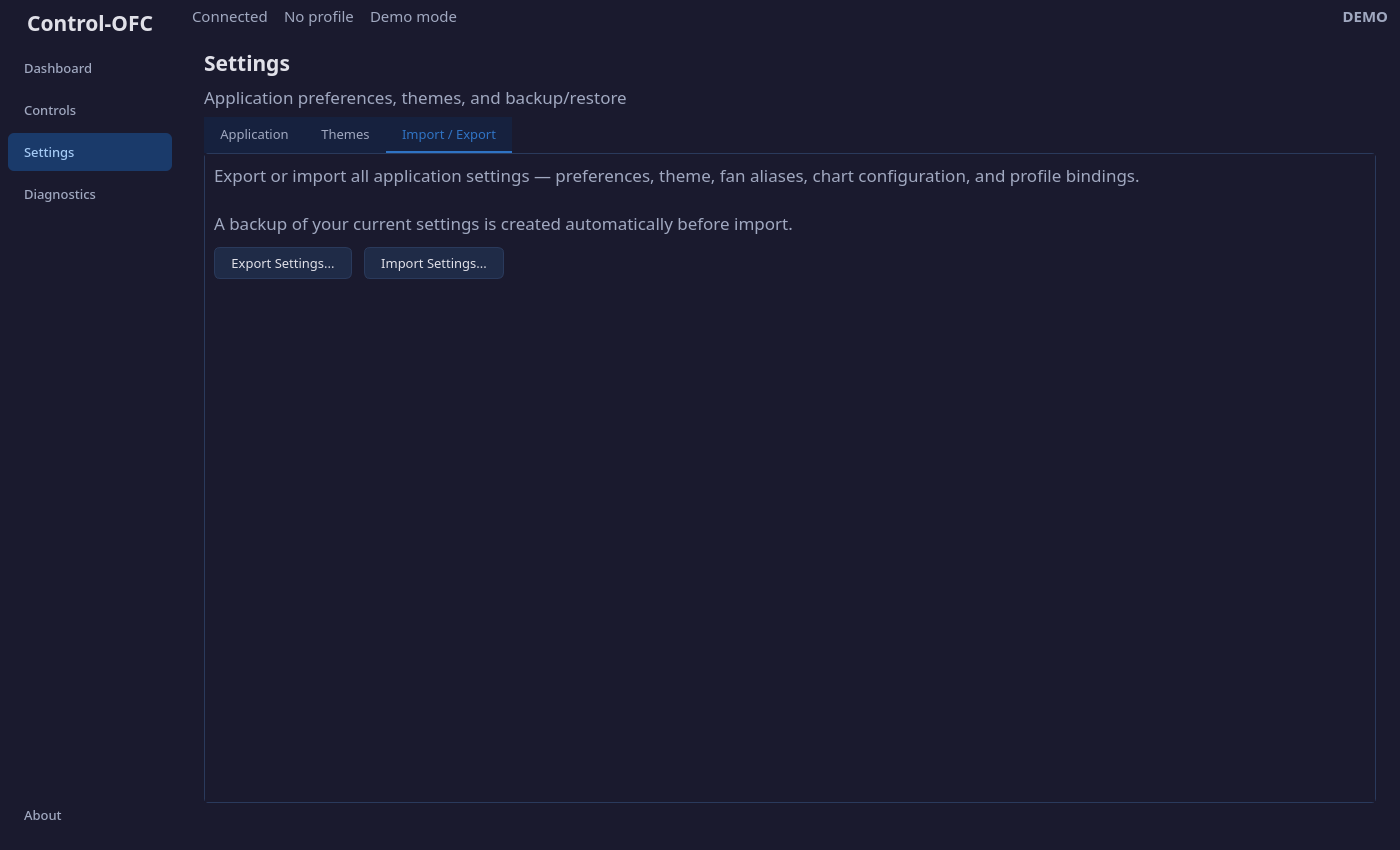
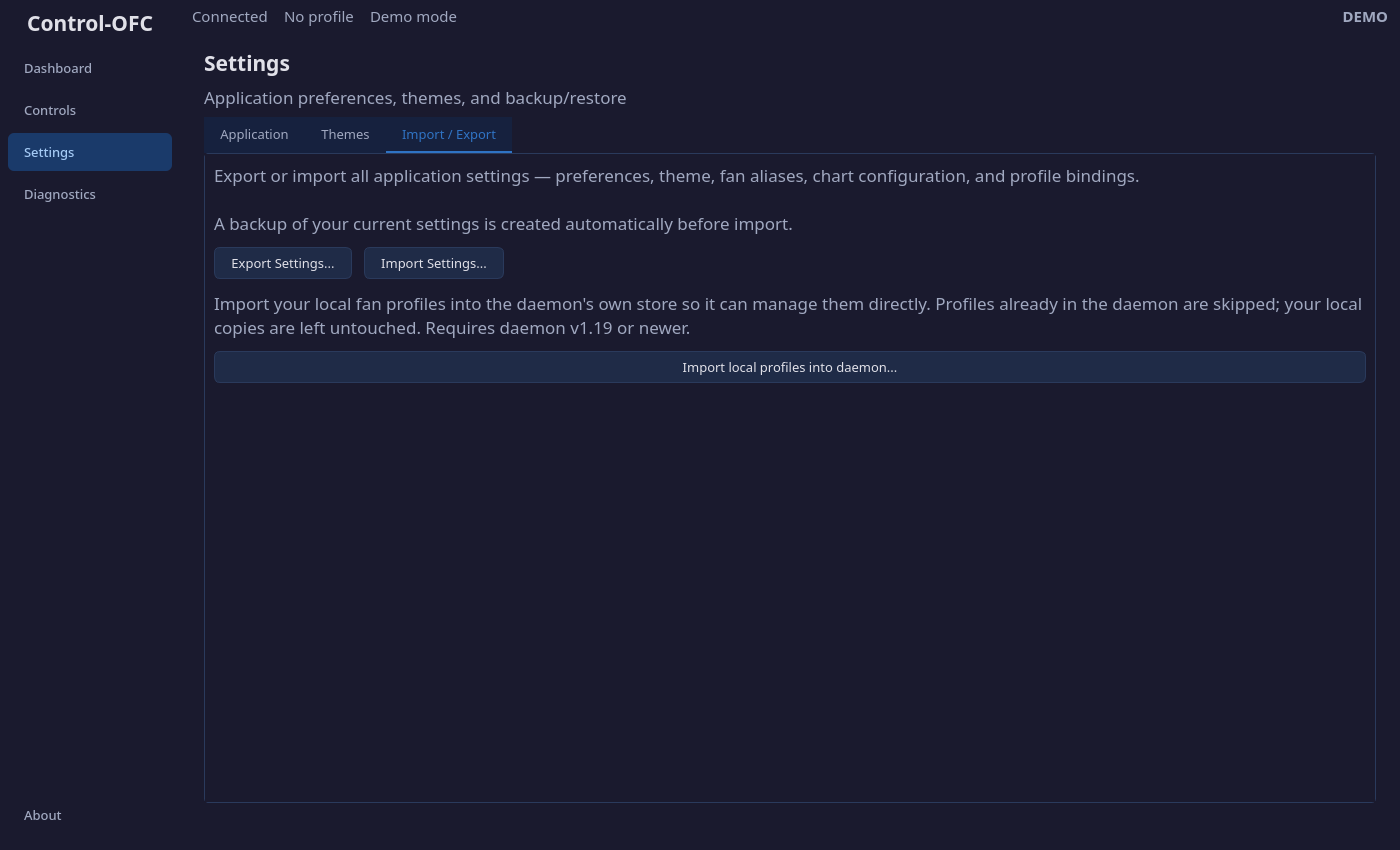
release: v1.42.0 — one-time profile import (DEC-161)
GUI-only. Migrate local fan profiles into the daemon's profile store via the
existing POST /profiles CRUD; non-destructive, idempotent, capability-gated.
Pairs with control-ofc-daemon >= v1.19.0.

- pyproject + packaging/PKGBUILD: 1.41.0 -> 1.42.0
- CHANGELOG: [1.42.0] release notes
- README: latest-release line + daemon pairing >= v1.19.0
- manual/settings.md: document the daemon-import flow
- screenshots: recapture Import/Export tab (new section)

Changed region(s): [[0.1536, 0.3365, 0.9829, 0.4588]]

diff --git a/CHANGELOG.md b/CHANGELOG.md
@@ -1,5 +1,27 @@
 # Changelog
 
+## [1.42.0] — 2026-06-17
+
+**One-time profile import** — migrate your existing local fan profiles into the daemon's own
+profile store. GUI-only; builds on the daemon's profile storage (v1.19.0). DEC-161.
+Pairs with `control-ofc-daemon` ≥ v1.19.0.
+
+### Added
+- **"Import local profiles into daemon…"** on Settings ▸ Import / Export, plus a one-time
+  startup offer shown when a profile-storage-capable daemon (v1.19+) is detected and you have
+  local profiles. Your local copies are left untouched — the import is non-destructive.
+- Each profile is migrated to the current schema and uploaded through the daemon's existing
+  `POST /profiles` API. Profiles already in the daemon are **skipped** by default; an explicit
+  **"import as copies"** action renames collisions (e.g. *Quiet (imported)*).
+- An import report groups results into **imported / skipped / quarantined** — a profile that
+  fails validation or can't be parsed is set aside with a reason, never aborting the rest of
+  the batch.
+
+### Notes
+- No new daemon version is required: the import reuses the daemon's profile CRUD and is offered
+  only when the daemon advertises `control.profile_storage` (a graceful no-op otherwise).
+  Idempotent — re-running skips profiles already imported (matched by id).
+
 ## [1.41.0] — 2026-06-17
 
 **Distinct per-severity advisories** in Diagnostics ▸ Troubleshooting ▸ Hardware Readiness

diff --git a/manual/settings.md b/manual/settings.md
@@ -109,6 +109,24 @@ When importing:
 
 This makes it safe to experiment — you can always restore from the auto-backup. Some preferences (theme, chart range, aliases) take effect on the next launch.
 
+### Importing Your Profiles into the Daemon
+
+If you run a daemon that owns its own profile store (v1.19 or newer), the
+**Import local profiles into daemon…** button copies your local fan profiles
+(`~/.config/control-ofc/profiles/`) into the daemon so it can manage them
+directly. The first time the GUI connects to a capable daemon and finds local
+profiles it offers this automatically; you can also run it any time from this tab.
+
+- Your local copies are **left untouched** — the import only ever reads them.
+- Profiles already in the daemon are **skipped**; choose **import as copies** to
+  bring them in under a renamed copy (e.g. *Quiet (imported)*) instead.
+- A profile that fails validation is **quarantined** with a reason and listed in
+  the report, without stopping the rest of the import.
+- Re-running is safe: profiles already imported are matched by id and skipped.
+
+The button appears only when the daemon advertises profile storage; against an
+older daemon it does nothing.
+
 ---
 
 Previous: [Controls](controls.md) | Next: [Diagnostics](diagnostics.md)

diff --git a/README.md b/README.md
@@ -1,6 +1,6 @@
 # Control-OFC GUI
 
-**Latest release:** v1.41.0 — 2026-06-17. Pairs with `control-ofc-daemon` ≥ v1.18.0. See [`CHANGELOG.md`](CHANGELOG.md) for the full history.
+**Latest release:** v1.42.0 — 2026-06-17. Pairs with `control-ofc-daemon` ≥ v1.19.0. See [`CHANGELOG.md`](CHANGELOG.md) for the full history.
 
 Desktop fan control interface for Linux. Communicates with the [`control-ofc-daemon`](https://github.com/Plan-B-Development/control-ofc-daemon) service to monitor temperatures, manage fan speeds, and apply custom fan curves.
 